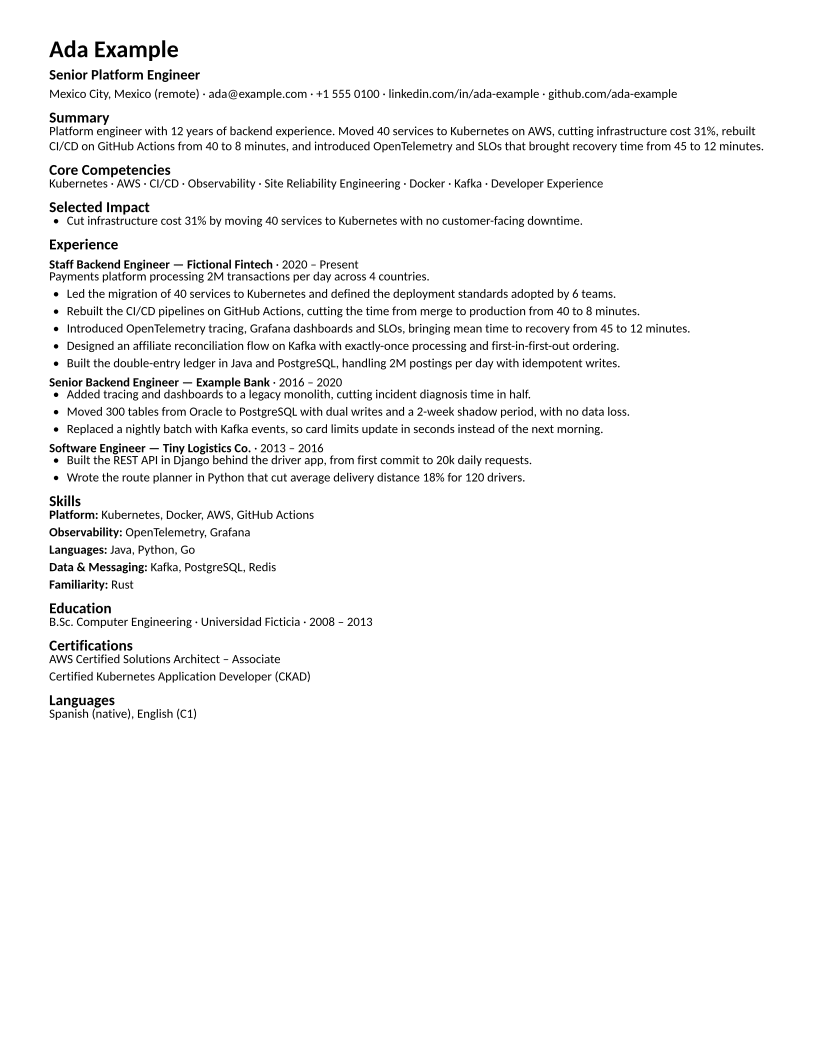
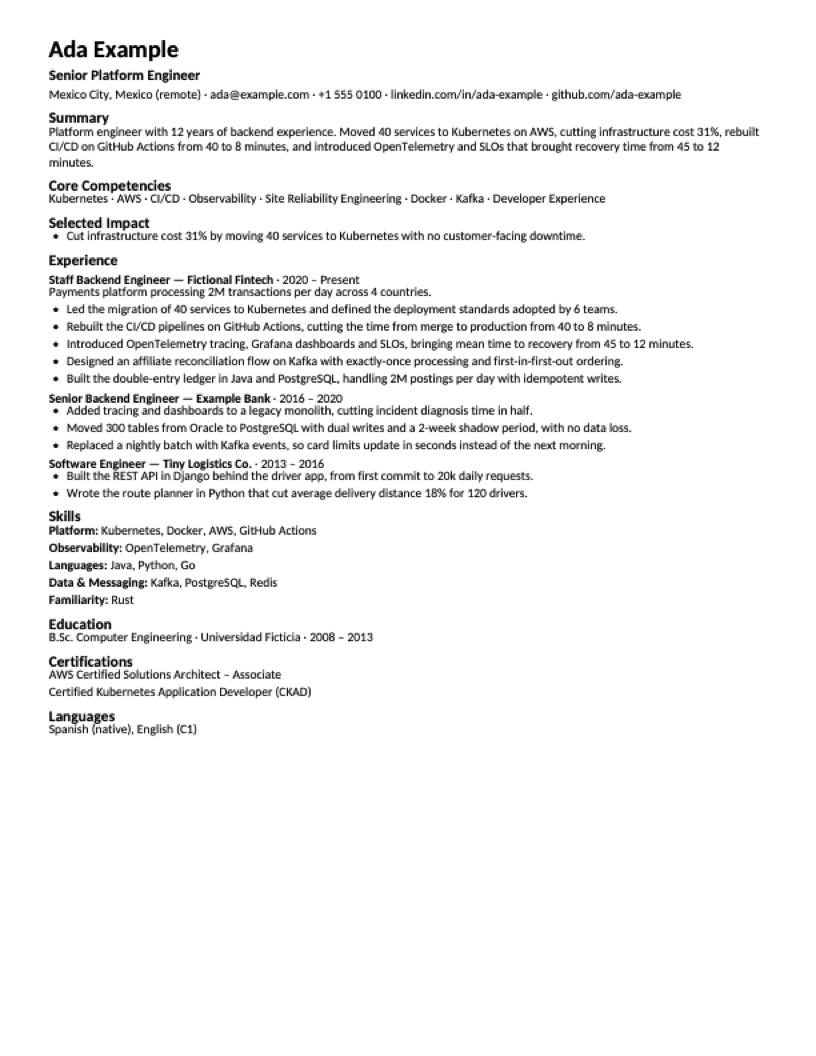
docs: new demo GIF, current CV image and a CHANGELOG for 0.1.0
- The GIF shows a skill checklist, scoring a job post with honest gaps, a
  verified build, and a cover letter refused for claiming an X skill.
- The README's CV image is rendered again, with kerning off.
- CHANGELOG.md (Keep a Changelog) describes 0.1.0, still unreleased; it ships in
  the sdist and is linked from the project URLs.

Changed region(s): [[0.0613, 0.0312, 0.9498, 0.7188]]

diff --git a/CHANGELOG.md b/CHANGELOG.md
@@ -1,0 +1,67 @@
+# Changelog
+
+All notable changes to honest-cv. The format follows [Keep a Changelog](https://keepachangelog.com/en/1.1.0/),
+and versions follow [Semantic Versioning](https://semver.org/).
+
+## [0.1.0] — unreleased
+
+The first release: an MCP server, a CLI and a Claude Code skill that turn one profile folder into
+honest, ATS-safe CVs and cover letters.
+
+### Profile and honesty
+
+- A profile is four YAML files: contact and roles, a pool of achievement bullets, a skill inventory
+  and variants per type of role, with `extends:` inheritance. Texts can be per language (EN, ES).
+- Skill levels: P (production), L (own project or lab), F (familiarity, always labeled as such)
+  and X (never shown, but kept so gap reports are honest).
+- Raising a level needs written evidence and the person's own confirmation. In MCP clients that
+  support elicitation, a form asks "no / sí" for each upgrade, up to 10 at a time; elsewhere the
+  CLI asks in the terminal. The model cannot confirm for the person.
+- Tools to edit every part of the profile, each validating the whole profile before writing, and
+  to remove a skill, bullet or role without leaving a broken reference.
+
+### CVs
+
+- PDF with Typst and the bundled Carlito font, the same on every machine with no system fonts;
+  DOCX with python-docx. `fit_pages` adjusts density to meet a variant's page limit.
+- ATS guarantees checked on every build with pypdf and pdfminer.six: one column, no ligatures,
+  no kerning, no hyphenation, dates on their role's line, reading order, every bullet extracted,
+  and terms like "CI/CD", URLs and emails never split across lines.
+- `verify` checks any PDF, including CVs made with other tools.
+
+### Job posts
+
+- Keyword coverage per variant, with synonyms in English and Spanish.
+- Gaps classified against the person's own inventory: in the inventory but not on this CV,
+  familiarity only, or not held.
+
+### Skill checklists
+
+- Mark many skills at once in a Markdown file: one letter per line, evidence after " — ", an
+  optional evidence line per section, years and last year used.
+- Seven built-in checklists (backend JVM, Python and Go, frontend, platform/SRE, data,
+  engineering leadership), merged without duplicates and prefilled from the inventory.
+- Any checklist written by hand can be applied, in English or Spanish. Lines without evidence
+  come back as pending and are asked about in groups.
+
+### Cover letters
+
+- `check_claims` reads any text against the profile. It blocks an X skill, or an F skill
+  presented as experience, and warns about technologies and numbers the profile doesn't show.
+- `build_letter` renders a one-page letter to PDF and DOCX with the CV's ATS checks, and refuses
+  while there are problems.
+
+### Import
+
+- JSON Resume and LinkedIn's data export (ZIP of CSVs): contact, roles, achievements,
+  education, certifications and languages. It only adds what is missing and never overwrites.
+  Skills arrive without a level, as a checklist to mark.
+- LinkedIn's profile PDF: the server returns its text and the client proposes each section for
+  the person to approve.
+
+### Clients
+
+- Tested in Claude Code (confirmation in the chat) and Claude Desktop (confirmation in a
+  terminal). The server needs no API key and makes no network calls.
+
+[0.1.0]: https://github.com/JesusCabreraReveles/honest-cv/releases/tag/v0.1.0

diff --git a/README.md b/README.md
@@ -11,7 +11,7 @@ turns it into a PDF and DOCX for each type of role. It never claims a skill you 
 
 [Leer en español](https://github.com/JesusCabreraReveles/honest-cv/blob/master/README.es.md)
 
-![Demo: score a job post, build a variant, verify it](https://raw.githubusercontent.com/JesusCabreraReveles/honest-cv/master/docs/assets/demo.gif)
+![Demo: a skill checklist, scoring a job post, a verified build, and a cover letter that refuses a skill the person lacks](https://raw.githubusercontent.com/JesusCabreraReveles/honest-cv/master/docs/assets/demo.gif)
 
 ## Why
 

diff --git a/README.es.md b/README.es.md
@@ -12,7 +12,7 @@ skill que no tienes.
 
 [Read in English](README.md)
 
-![Demo: puntuar una vacante, generar una variante y verificarla](docs/assets/demo.gif)
+![Demo: un checklist de skills, el puntaje contra una vacante, un build verificado y una carta que rechaza una skill que la persona no tiene](docs/assets/demo.gif)
 
 ## Por qué
 
